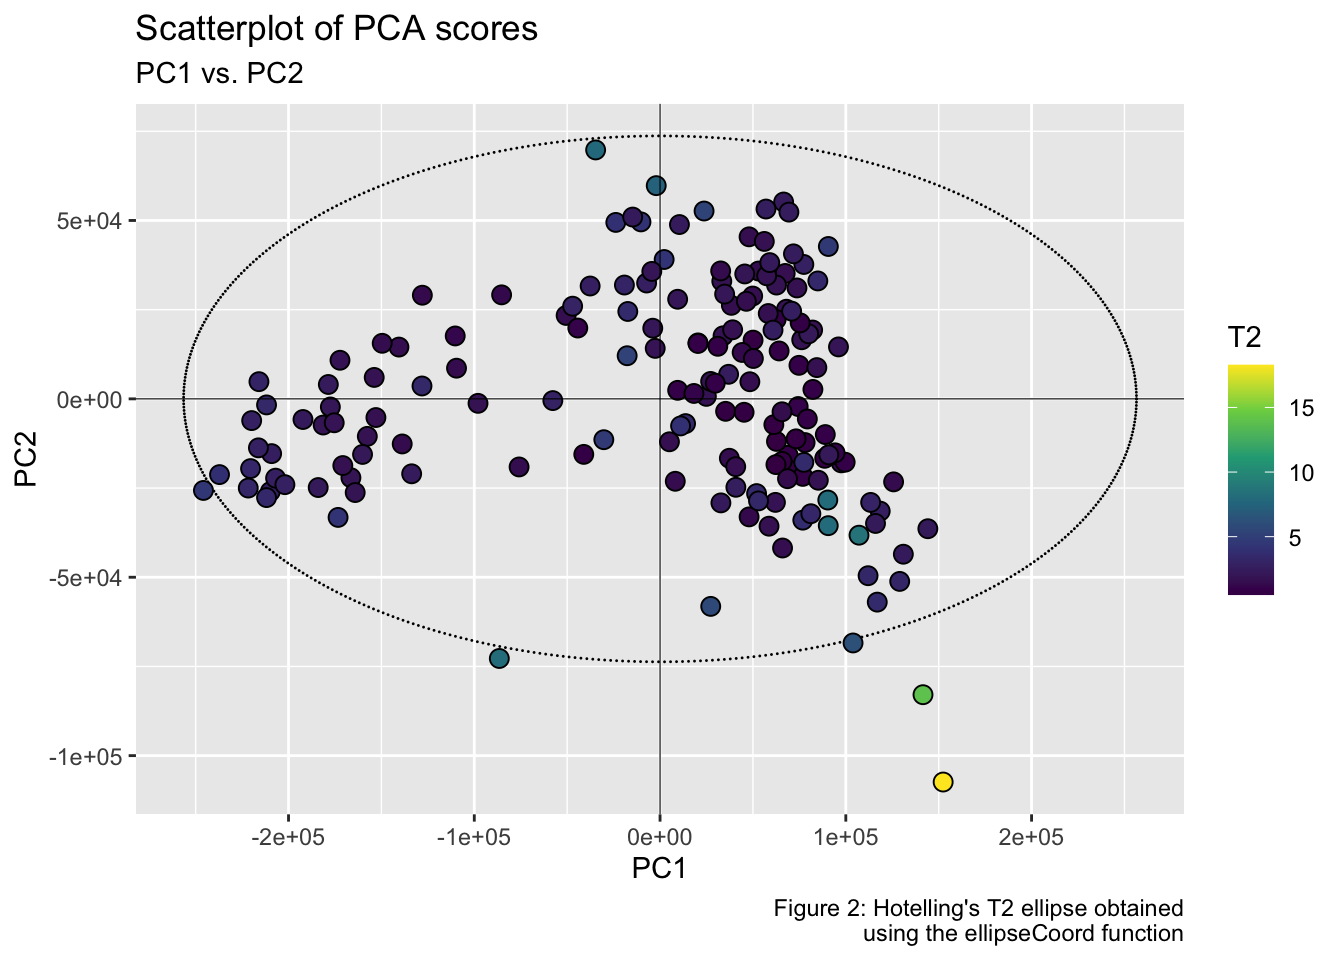
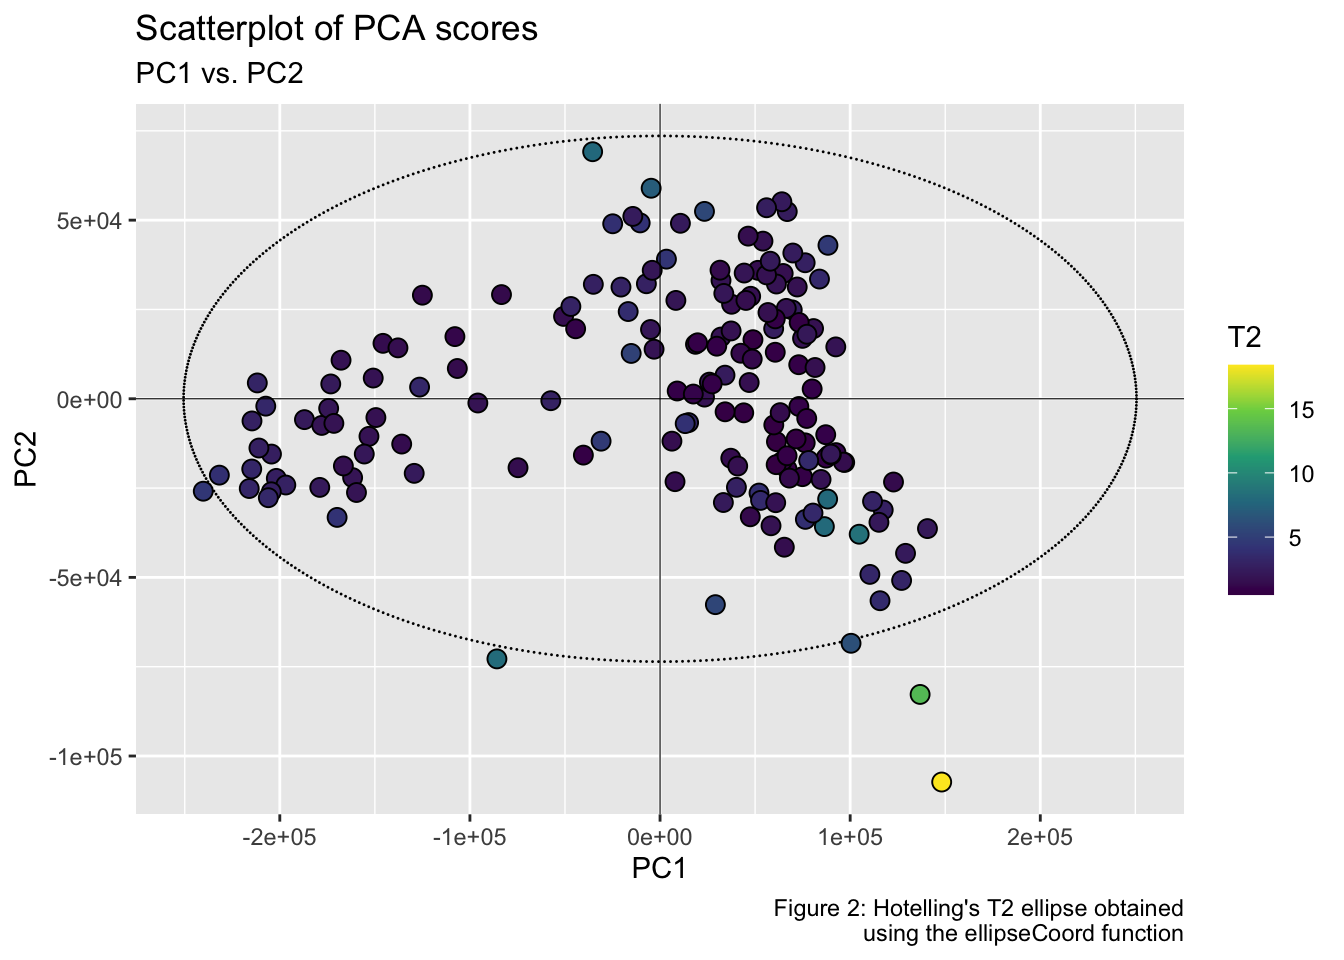
Updates

diff --git a/README.md b/README.md
@@ -80,18 +80,18 @@ pca_scores <- pca_mod %>%
   as_tibble() %>%
   print()
 #> # A tibble: 171 × 5
-#>      Dim.1   Dim.2   Dim.3   Dim.4   Dim.5
-#>      <dbl>   <dbl>   <dbl>   <dbl>   <dbl>
-#>  1 144168. -36399.   2228.   -670.  13805.
-#>  2 118520. -31465.  16300. -20686. -13872.
-#>  3  90303. -28356.  31340. -60615.  15157.
-#>  4 107107. -38209.  24897. -60366.  19449.
-#>  5  74350.  -2148.  29814.  -8351.    494.
-#>  6  97511. -17932.  22254. -15406.  -4195.
-#>  7  82142.  19297. -34299. -12498.   -648.
-#>  8  76261.  16566. -34382. -16293.    137.
-#>  9  73705.  31091. -22577. -17182.   2438.
-#> 10  68042.  25124. -26063. -19389.   6051.
+#>      Dim.1   Dim.2   Dim.3   Dim.4    Dim.5
+#>      <dbl>   <dbl>   <dbl>   <dbl>    <dbl>
+#>  1  15021.  -6664. -23800.  -2683. -30125. 
+#>  2  37205. -16640. -14882.   8566. -16900. 
+#>  3 110366. -49158.  37954. -11079.   2600. 
+#>  4  10708.  49123.  18879.  -5441. -14921. 
+#>  5 117379. -31128. -16638. -20459. -14914. 
+#>  6  80742.  19654.  34261. -12216.    -38.0
+#>  7  48867.  16538.   5662. -11706.   5465. 
+#>  8 122792. -23301. -13664.  -8704.   2929. 
+#>  9  97123. -17820. -13429.  -5519.   6973. 
+#> 10  61216. -12005. -16953.   1905.   2814. 
 #> # … with 161 more rows
 ```
 
@@ -109,12 +109,12 @@ res_2PCs <- ellipseParam(data = pca_scores, k = 2, pcx = 1, pcy = 2)
 str(res_2PCs)
 #> List of 4
 #>  $ Tsquare     : tibble [171 × 1] (S3: tbl_df/tbl/data.frame)
-#>   ..$ value: num [1:171] 2.28 2.65 8 8.63 1.05 ...
+#>   ..$ value: num [1:171] 3.29 1.39 3.27 2.37 2.77 ...
 #>  $ Ellipse     : tibble [1 × 4] (S3: tbl_df/tbl/data.frame)
-#>   ..$ a.99pct: num 319536
-#>   ..$ b.99pct: num 91816
-#>   ..$ a.95pct: num 256487
-#>   ..$ b.95pct: num 73699
+#>   ..$ a.99pct: num 312205
+#>   ..$ b.99pct: num 91666
+#>   ..$ a.95pct: num 250602
+#>   ..$ b.95pct: num 73579
 #>  $ cutoff.99pct: num 9.52
 #>  $ cutoff.95pct: num 6.14
 ```
@@ -152,8 +152,8 @@ coord_2PCs <- ellipseCoord(data = pca_scores, pcx = 1, pcy = 2, conf.limit = 0.9
 ``` r
 str(coord_2PCs)
 #> tibble [500 × 2] (S3: tbl_df/tbl/data.frame)
-#>  $ x: num [1:500] 256487 256466 256405 256304 256161 ...
-#>  $ y: num [1:500] 7.20e-12 9.28e+02 1.86e+03 2.78e+03 3.71e+03 ...
+#>  $ x: num [1:500] 250602 250582 250523 250423 250284 ...
+#>  $ y: num [1:500] 9.40e-12 9.26e+02 1.85e+03 2.78e+03 3.70e+03 ...
 ```
 
 **Step 6.** Plot PC1 *vs.* PC2 scatterplot, with the two corresponding
@@ -192,8 +192,8 @@ ggplot() +
 T<sup>2</sup> for more than two principal components, is to plot
 Hotelling’s T<sup>2</sup> *vs.* Observations, where the confidence
 limits are plotted as a line. Thus, observations below the two lines are
-within the T<sup>2</sup> limits. For example, below, `ellipseParam()` is
-used with the first three principal components (**k = 3**).
+within the T<sup>2</sup> limits. For example, `ellipseParam()` is used
+with the first three principal components (**k = 3**).
 
 ``` r
 res_3PCs <- ellipseParam(data = pca_scores, k = 3)
@@ -203,7 +203,7 @@ res_3PCs <- ellipseParam(data = pca_scores, k = 3)
 str(res_3PCs)
 #> List of 3
 #>  $ Tsquare     : tibble [171 × 1] (S3: tbl_df/tbl/data.frame)
-#>   ..$ value: num [1:171] 1.51 1.757 5.299 5.722 0.697 ...
+#>   ..$ value: num [1:171] 2.179 0.922 2.167 1.573 1.836 ...
 #>  $ cutoff.99pct: num 11.8
 #>  $ cutoff.95pct: num 8.07
 ```
